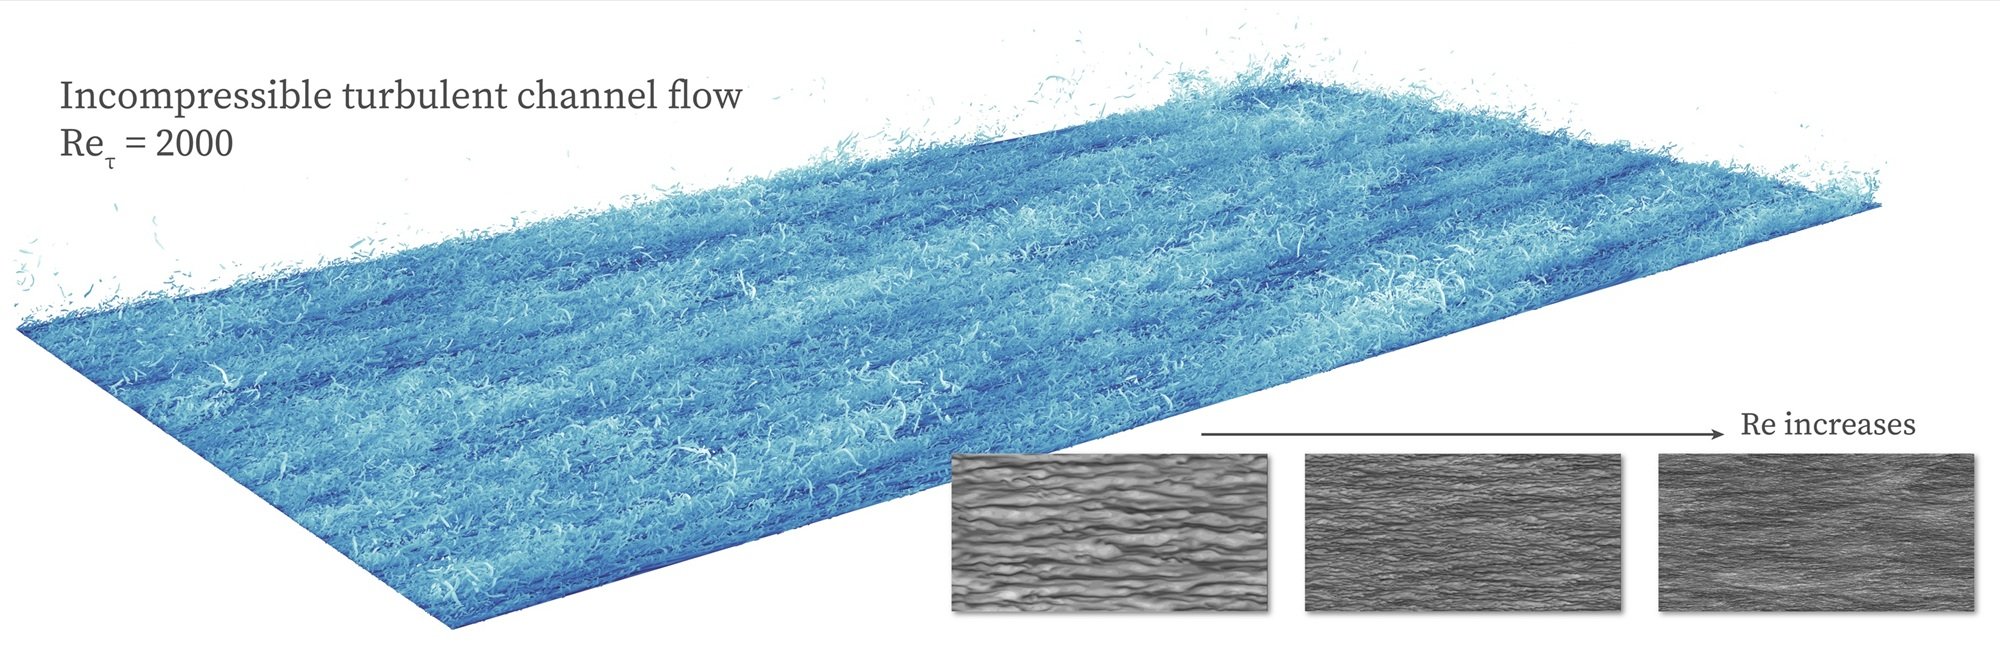
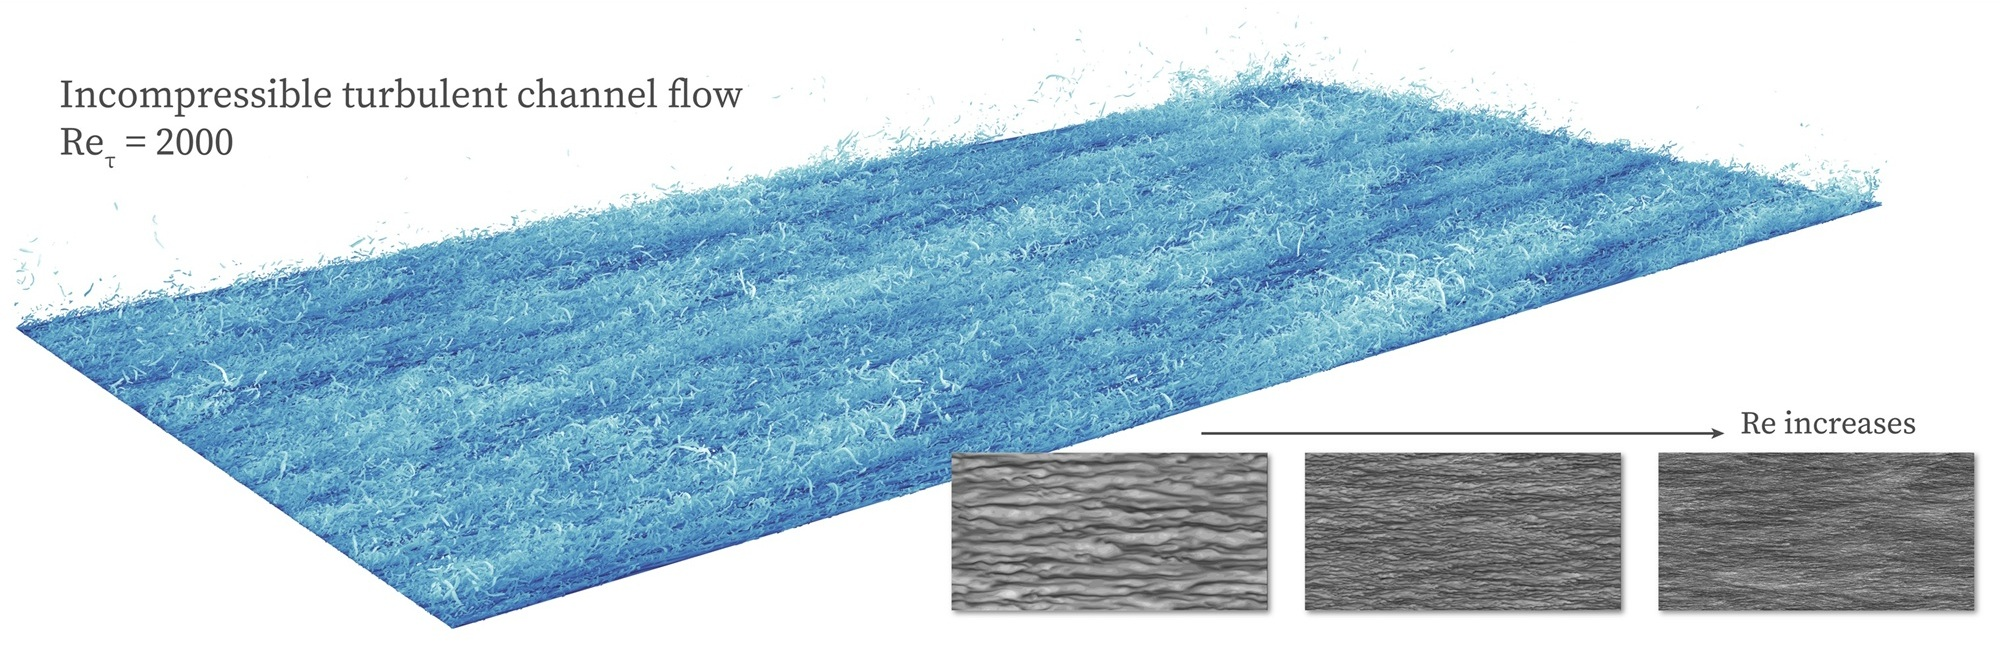
Unify site typography and article styling

diff --git a/_sass/_base.scss b/_sass/_base.scss
@@ -223,6 +223,42 @@ ul.task-list input[type="checkbox"] {
   border-top: 1px solid var(--global-divider-color);
 }
 
+.about-name-emphasis {
+  font-weight: 600 !important;
+}
+
+.about-name-divider {
+  display: inline-block;
+  width: 1px;
+  height: 0.8em;
+  margin: 0 0.3em;
+  background-color: var(--global-gray-text-color);
+  vertical-align: -0.08em;
+}
+
+.about-quote.type-body {
+  color: var(--global-gray-text-color) !important;
+}
+
+.about-home article > .clearfix {
+  -webkit-hyphens: auto;
+  hyphens: auto;
+  text-align: justify;
+  text-justify: inter-word;
+}
+
+.about-home .profile figure {
+  width: 90%;
+  margin-right: auto;
+  margin-left: auto;
+}
+
+.about-profile-image {
+  border: 1px solid var(--global-divider-color);
+  border-radius: 8px !important;
+  box-shadow: none !important;
+}
+
 .profile-social {
   margin-top: 0.68rem;
   text-align: center;
@@ -314,7 +350,7 @@ ul.task-list input[type="checkbox"] {
 }
 
 .type-item-title {
-  font-size: 1rem !important;
+  font-size: 1.125rem !important;
   font-weight: 500 !important;
 }
 
@@ -323,8 +359,18 @@ ul.task-list input[type="checkbox"] {
 }
 
 .type-body {
-  font-size: 0.875rem !important;
+  color: var(--global-body-gray-color);
+  font-size: 1rem !important;
   font-weight: 400 !important;
+}
+
+.type-body p,
+.type-body li {
+  color: var(--global-body-gray-color);
+}
+
+.post-description.type-body {
+  color: var(--global-gray-text-color);
 }
 
 .type-meta {
@@ -392,6 +438,7 @@ ul.task-list input[type="checkbox"] {
 
   .navbar-nav .nav-item .nav-link {
     color: var(--global-text-color);
+    font-weight: 400;
 
     &:hover {
       color: var(--global-hover-color);
@@ -417,6 +464,10 @@ ul.task-list input[type="checkbox"] {
     background-color: inherit;
     font-weight: 400;
     color: var(--global-theme-color);
+
+    .nav-label > span {
+      color: var(--global-theme-color);
+    }
 
     &:hover {
       color: var(--global-hover-color);
@@ -599,6 +650,7 @@ ul.task-list input[type="checkbox"] {
 footer.fixed-bottom {
   background-color: var(--global-footer-bg-color);
   font-size: 0.75rem;
+  font-weight: 400;
 
   .container {
     color: var(--global-footer-text-color);
@@ -621,7 +673,8 @@ footer.sticky-bottom {
   border-top: 1px solid var(--global-divider-color);
   padding-top: 40px;
   padding-bottom: 40px;
-  font-size: 0.9rem;
+  font-size: 0.75rem;
+  font-weight: 400;
 
   .container {
     text-align: center;
@@ -712,8 +765,8 @@ footer.sticky-bottom {
 
   &__title {
     margin: 0;
-    font-size: 1rem;
-    font-weight: bolder;
+    font-size: 1.125rem;
+    font-weight: 500;
     line-height: 1.4;
   }
 
@@ -733,7 +786,7 @@ footer.sticky-bottom {
     border: 1px solid var(--global-divider-color);
     border-radius: 0.2rem;
     color: var(--global-text-color-light);
-    font-size: 0.68rem;
+    font-size: 0.75rem;
     font-weight: 500;
     line-height: 1.35;
     white-space: nowrap;
@@ -741,7 +794,9 @@ footer.sticky-bottom {
 
   &__description {
     margin-bottom: 0.45rem;
-    color: var(--global-text-color);
+    color: var(--global-body-gray-color);
+    font-size: 1rem;
+    font-weight: 400;
     line-height: 1.5;
   }
 
@@ -750,7 +805,8 @@ footer.sticky-bottom {
     flex-wrap: wrap;
     gap: 0.45rem 0.9rem;
     color: var(--global-text-color-light);
-    font-size: 0.85rem;
+    font-size: 0.75rem;
+    font-weight: 400;
 
     span {
       display: inline-flex;
@@ -769,7 +825,8 @@ footer.sticky-bottom {
 
   &__status {
     color: var(--global-text-color-light);
-    font-size: 0.85rem;
+    font-size: 0.75rem;
+    font-weight: 400;
   }
 
   &__fallback-link {
@@ -1157,19 +1214,30 @@ footer.sticky-bottom {
   text-align: left;
 }
 
-.publications-year-toc {
+.publications-year-toc .publication-entry-text .title,
+.selected-publications .publication-entry-text .title {
+  margin-bottom: 0.375rem;
+}
+
+.publications-year-toc,
+.selected-publications {
   .publication-entry-text {
     .title {
       color: var(--global-text-color);
-      font-size: 1rem !important;
+      font-size: 1.125rem !important;
       font-weight: 500 !important;
     }
 
     .author,
     .periodical,
     .hidden {
-      font-size: 0.875rem;
+      font-size: 1rem;
       font-weight: 400;
+    }
+
+    .author,
+    .hidden {
+      color: var(--global-body-gray-color);
     }
 
     .author a {
@@ -1204,6 +1272,15 @@ footer.sticky-bottom {
     font-size: 0.75rem;
     font-weight: 500;
   }
+}
+
+:is(.publications-year-toc, .selected-publications) .author,
+:is(.publications-year-toc, .selected-publications) .author .publication-author-chunk,
+:is(.publications-year-toc, .selected-publications) .author .publication-author-chunk a,
+:is(.publications-year-toc, .selected-publications) .author .publication-author-more,
+:is(.publications-year-toc, .selected-publications) .author .more-authors,
+:is(.publications-year-toc, .selected-publications) .author .publication-author-ellipsis {
+  color: var(--global-gray-text-color);
 }
 
 #toc-sidebar.publication-toc a {
@@ -1294,6 +1371,104 @@ html.transition *:after {
       &:hover {
         color: var(--global-theme-color);
       }
+    }
+  }
+}
+
+.blog-article {
+  .post-header {
+    margin-bottom: 1.5rem;
+    padding-bottom: 1rem;
+    border-bottom: 1px solid var(--global-divider-color);
+  }
+
+  .post-meta,
+  .post-tags,
+  .post-tags a {
+    color: var(--global-gray-text-color);
+  }
+
+  #markdown-content {
+    > p {
+      -webkit-hyphens: auto;
+      hyphens: auto;
+      text-align: justify;
+      text-justify: inter-word;
+    }
+
+    // Use cite for book and periodical titles in blog references.
+    cite {
+      font-style: italic;
+    }
+
+    h2 {
+      color: var(--global-text-color);
+      font-size: 1.75rem;
+      font-weight: 400;
+    }
+
+    h3,
+    h4,
+    h5,
+    h6 {
+      color: var(--global-text-color);
+      font-size: 1.125rem;
+      font-weight: 500;
+    }
+
+    blockquote {
+      background: transparent;
+      border-left: 0;
+      color: var(--global-body-gray-color);
+      font-size: 1rem;
+      font-weight: 400;
+      margin: 0.75rem 2rem;
+      padding: 0;
+
+      p {
+        color: inherit;
+        line-height: 1.5;
+        margin: 0;
+      }
+    }
+
+    .caption,
+    figcaption {
+      color: var(--global-gray-text-color) !important;
+      font-family: inherit;
+      font-size: 1rem;
+      font-weight: 400;
+      line-height: 1.55;
+      letter-spacing: 0;
+      -webkit-hyphens: auto;
+      hyphens: auto;
+      text-align: justify;
+      text-align-last: left;
+      text-justify: inter-word;
+    }
+
+    mjx-container[jax="CHTML"][display="true"] {
+      max-width: 100%;
+      overflow-x: auto;
+      overflow-y: hidden;
+    }
+  }
+
+}
+
+@media (max-width: 575.98px) {
+  .blog-article #markdown-content {
+    blockquote {
+      margin-right: 1rem;
+      margin-left: 1rem;
+    }
+
+    .caption,
+    figcaption {
+      -webkit-hyphens: none;
+      hyphens: none;
+      text-align: left;
+      text-align-last: auto;
     }
   }
 }

diff --git a/_sass/_themes.scss b/_sass/_themes.scss
@@ -8,6 +8,7 @@
   color-scheme: light;
   --global-bg-color: #{$white-color};
   --global-code-bg-color: #{$code-bg-color-light};
+  --global-body-gray-color: #{$body-gray-color};
   --global-text-color: #{$black-color};
   --global-text-color-light: #{$grey-color};
   --global-gray-text-color: #5f6368;

diff --git a/_sass/_layout.scss b/_sass/_layout.scss
@@ -130,8 +130,8 @@ html[data-theme="dark"] {
 }
 
 @media (max-width: 575.98px) {
-  .about-home .post-title {
-    font-size: 2.125rem;
+  .about-home .post-title.type-page-title {
+    font-size: 2.125rem !important;
   }
 }
 

diff --git a/_sass/_variables.scss b/_sass/_variables.scss
@@ -31,6 +31,7 @@ $grey-900: #212529;
 
 $white-color: #ffffff !default;
 $black-color: #000000 !default;
+$body-gray-color: rgb(36, 36, 36) !default;
 
 // Theme colors
 

diff --git a/_posts/2025-06-20-turbulence.md b/_posts/2025-06-20-turbulence.md
@@ -49,12 +49,12 @@ Turbulence (turbulent flows), usually referred to as the most important unsolved
 
 Yet, formidable challenges accompany the beauty of turbulent flows: nonlinearity, multi-scale nature, and irregularity, just to name a few. As said by Guy Beart,
 
-> Turbulence toiler, on the rack,
+> Turbulence toiler, on the rack,<br>
 > For each step forward, two steps back!
 
 To this day, we still don't fully understand where turbulence comes from (the transition between laminar and turbulent states) and where it goes (toward some ultimate scaling?).
 Scientists have been working hard on this problem for decades, flaring sparks on the boundless ocean to guide later generations. And now, it's our turn to continue this voyage.
 
-#### Reference
+## References
 
-> Davidson, P. A., Kaneda, Y., Moffatt, K., & Sreenivasan, K. R. (Eds.). (2011). A Voyage Through Turbulence. Cambridge: Cambridge University Press.
+Davidson, P. A., Kaneda, Y., Moffatt, K., & Sreenivasan, K. R. (Eds.). (2011). <cite>A Voyage Through Turbulence</cite>. Cambridge University Press.

diff --git a/_posts/2025-08-08-nse-in-wavenumber-space.md b/_posts/2025-08-08-nse-in-wavenumber-space.md
@@ -172,10 +172,10 @@ namely, this term merely represents a _transfer_ of energy between modes.
 
 ## References
 
-Batchelor, G. K. (1953). The Theory of Homogeneous Turbulence, Cambridge University Press.
+Batchelor, G. K. (1953). <cite>The Theory of Homogeneous Turbulence</cite>, Cambridge University Press.
 
-McComb, W. D. (1990). The Physics of Fluid Turbulence, Clarendon Press.
+McComb, W. D. (1990). <cite>The Physics of Fluid Turbulence</cite>, Clarendon Press.
 
-Frisch, U. (1995). Turbulence: The Legacy of A. N. Kolmogorov, Cambridge University Press.
+Frisch, U. (1995). <cite>Turbulence: The Legacy of A. N. Kolmogorov</cite>, Cambridge University Press.
 
-Pope, S. B. (2000). Turbulent Flows, Cambridge University Press.
+Pope, S. B. (2000). <cite>Turbulent Flows</cite>, Cambridge University Press.

diff --git a/_posts/2025-06-20-wall-bounded-turbulence.md b/_posts/2025-06-20-wall-bounded-turbulence.md
@@ -12,7 +12,7 @@ Turbulent flows are highly dynamic, irregular, and seemingly chaotic, characteri
 
 <div class="row mt-3">
     <div class="col-sm mt-3 mt-md-0">
-        {% include figure.liquid loading="eager" path="/assets/img/posts/channelTurbulence.jpg" class="img-fluid rounded z-depth-1" zoomable=true %}
+        {% include figure.liquid loading="eager" path="/assets/img/posts/channelTurbulence.jpg" class="img-fluid rounded" zoomable=true %}
     </div>
 </div>
 <div class="caption">

diff --git a/_pages/gallery.md b/_pages/gallery.md
@@ -38,7 +38,7 @@ _styles: |
 
   .gallery-caption {
     margin-top: 0.75rem;
-    color: var(--global-gray-text-color);
+    color: var(--global-gray-text-color) !important;
     font-family: inherit;
     line-height: 1.55;
     letter-spacing: 0;
